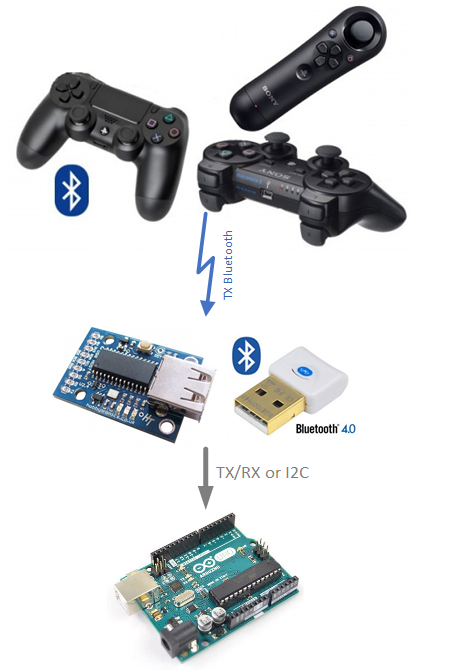
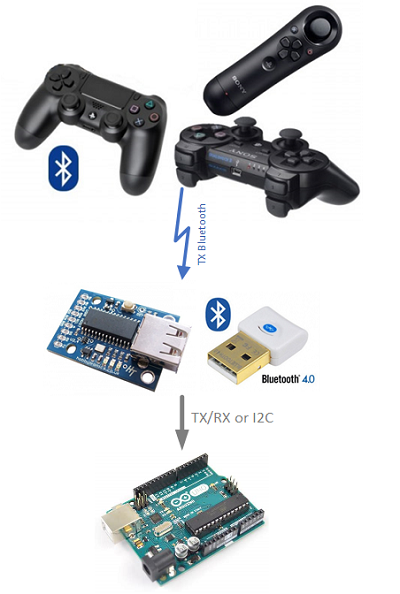
docs

diff --git a/README.md b/README.md
@@ -49,7 +49,7 @@ A variety of gamepad-style remote control configurations are available, some of 
 have endeavoured to develop (or adapt from existing sources) a [simple, standardised set of Arduino gamepad software libraries](https://github.com/semuconsulting) to 
 allow end users to adopt different configurations more or less interchangeably. See the README files in these libraries for further details.
 
-![ps3](/docs/Configurationps3.jpg) ![ps4bt](/docs/Configurationps4bt.jpg) ![dfr](/docs/Configurationdfr.jpg)
+![ps3](/docs/Configurationps3.png) ![ps4bt](/docs/Configurationps4bt.png) ![dfr](/docs/Configurationdfr.png)
 
 ### Standard PS3/PS4 Controller
 Perhaps the most reliable and intuitive option is to use a standard PS3 or PS4 controller (or the XBox equivalent) in conjunction with some form of wireless transceiver - either Bluetooth or 
